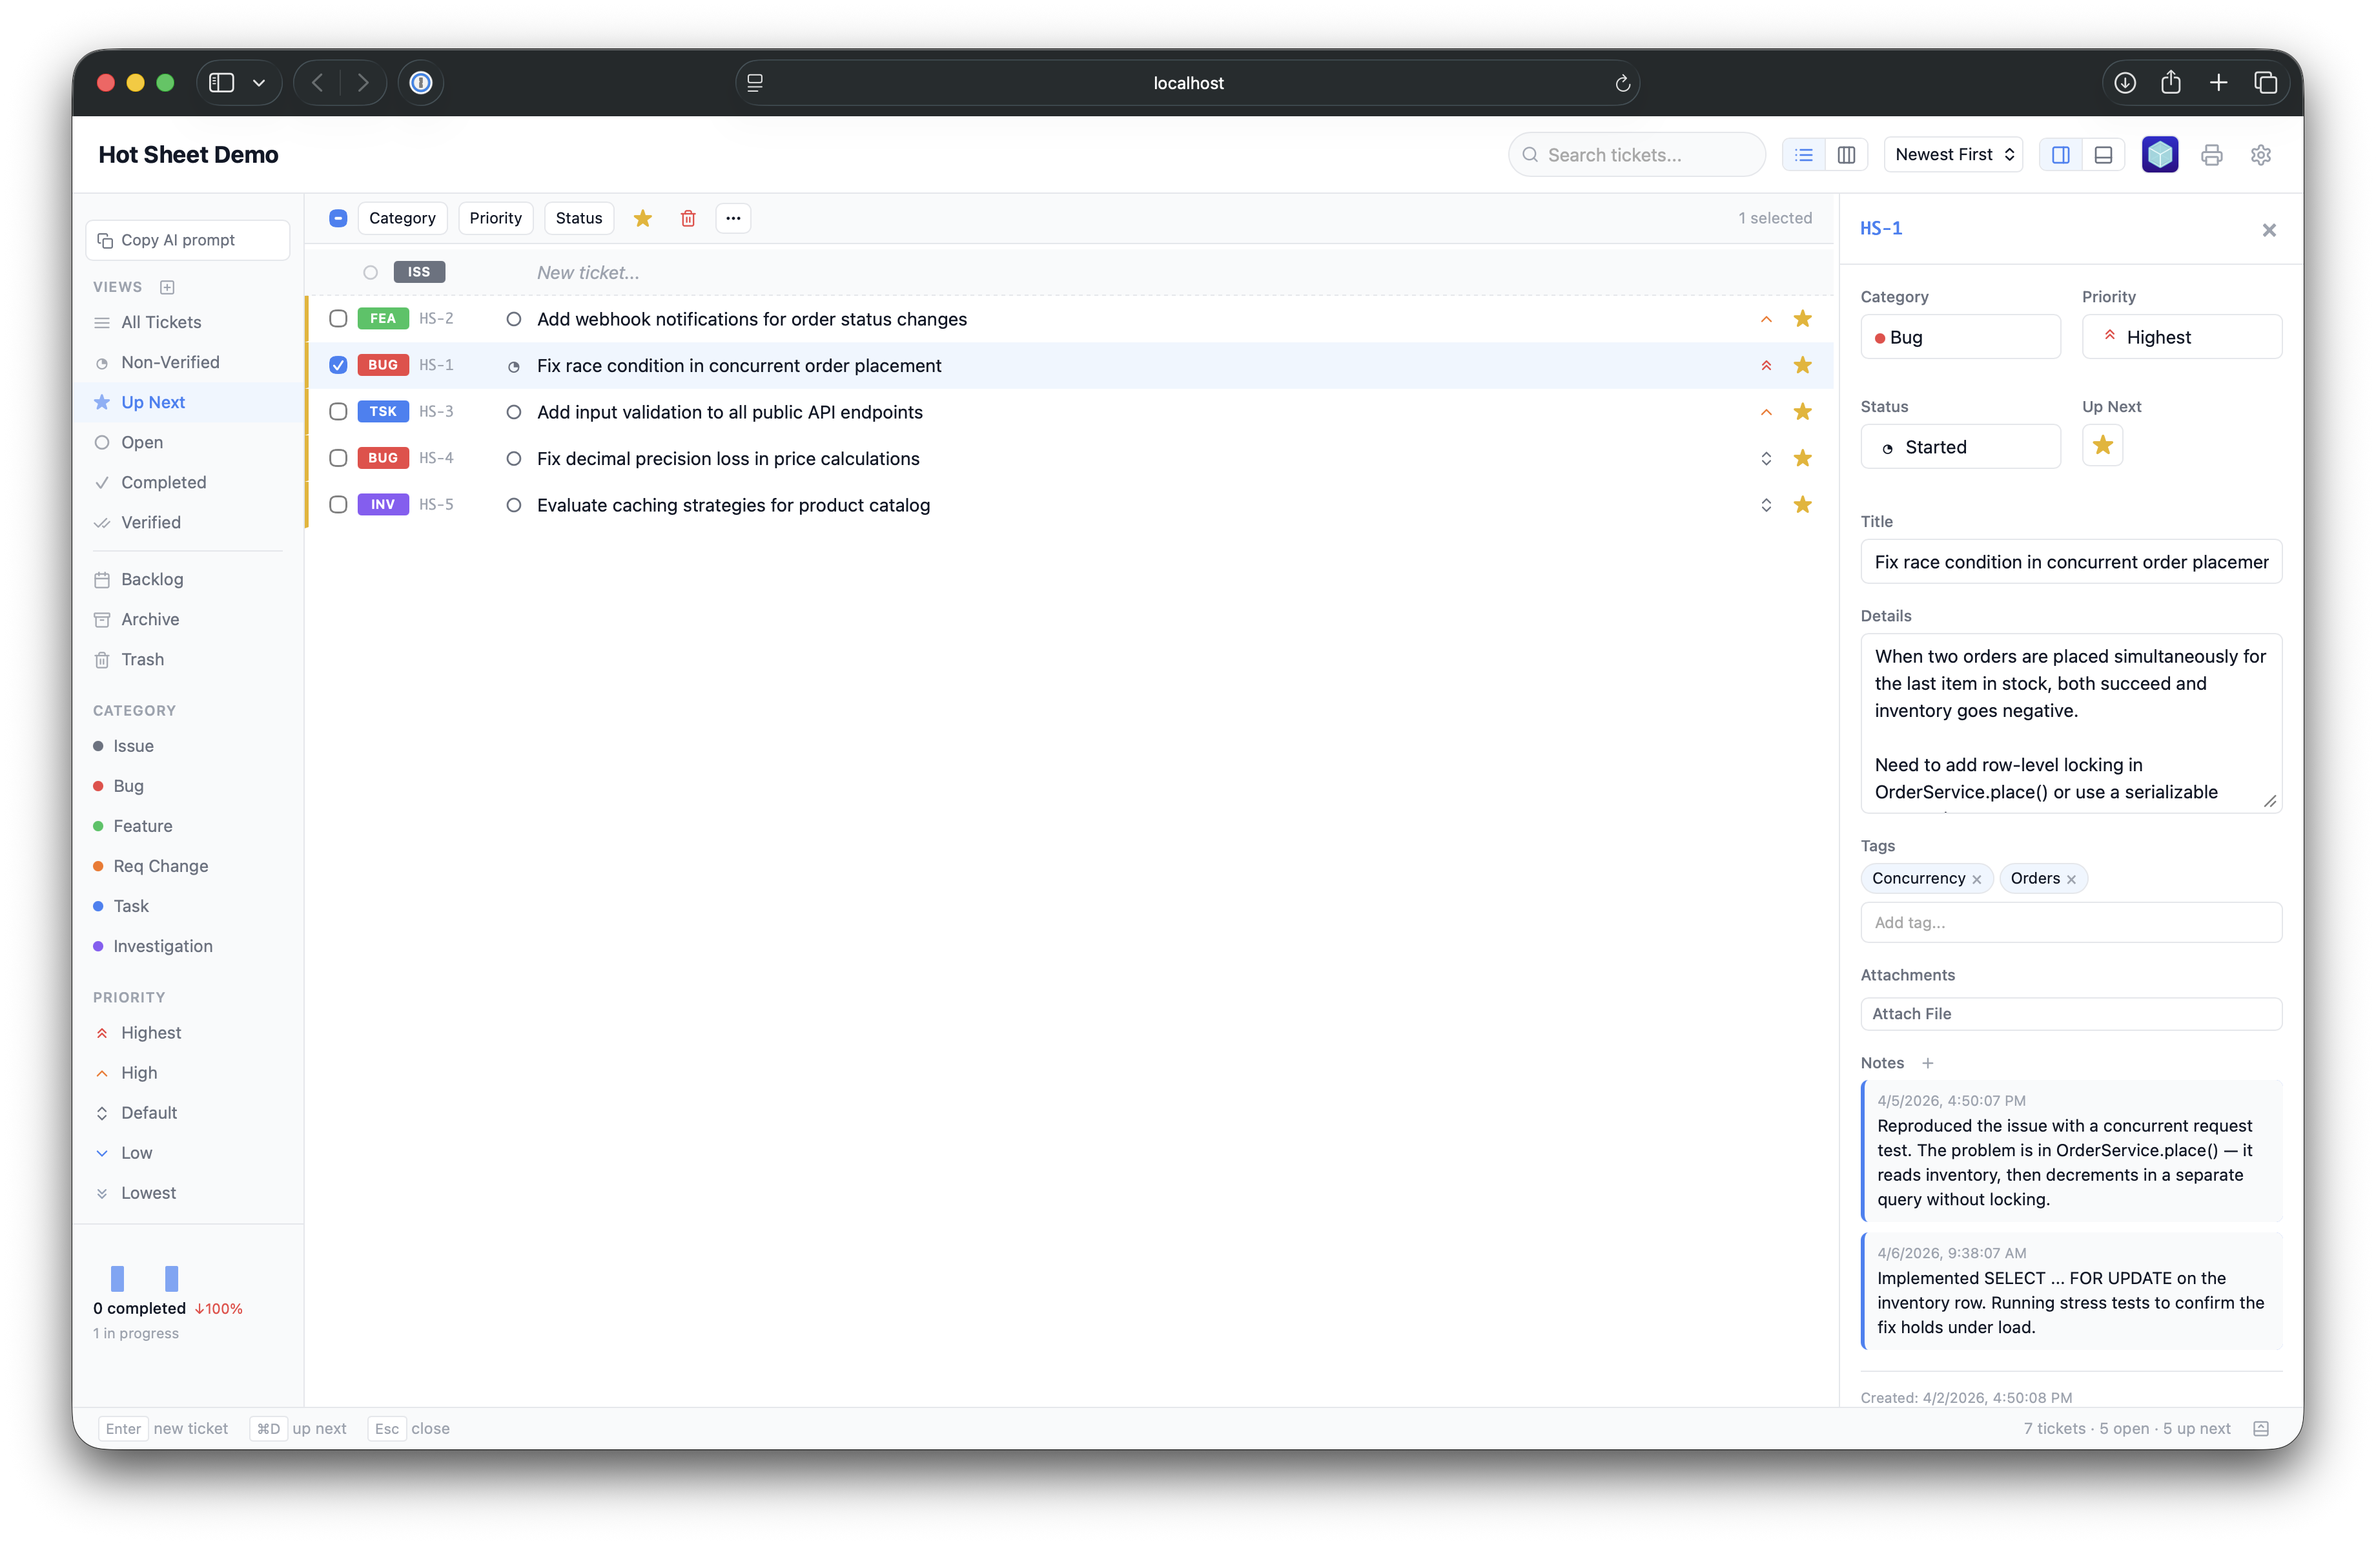
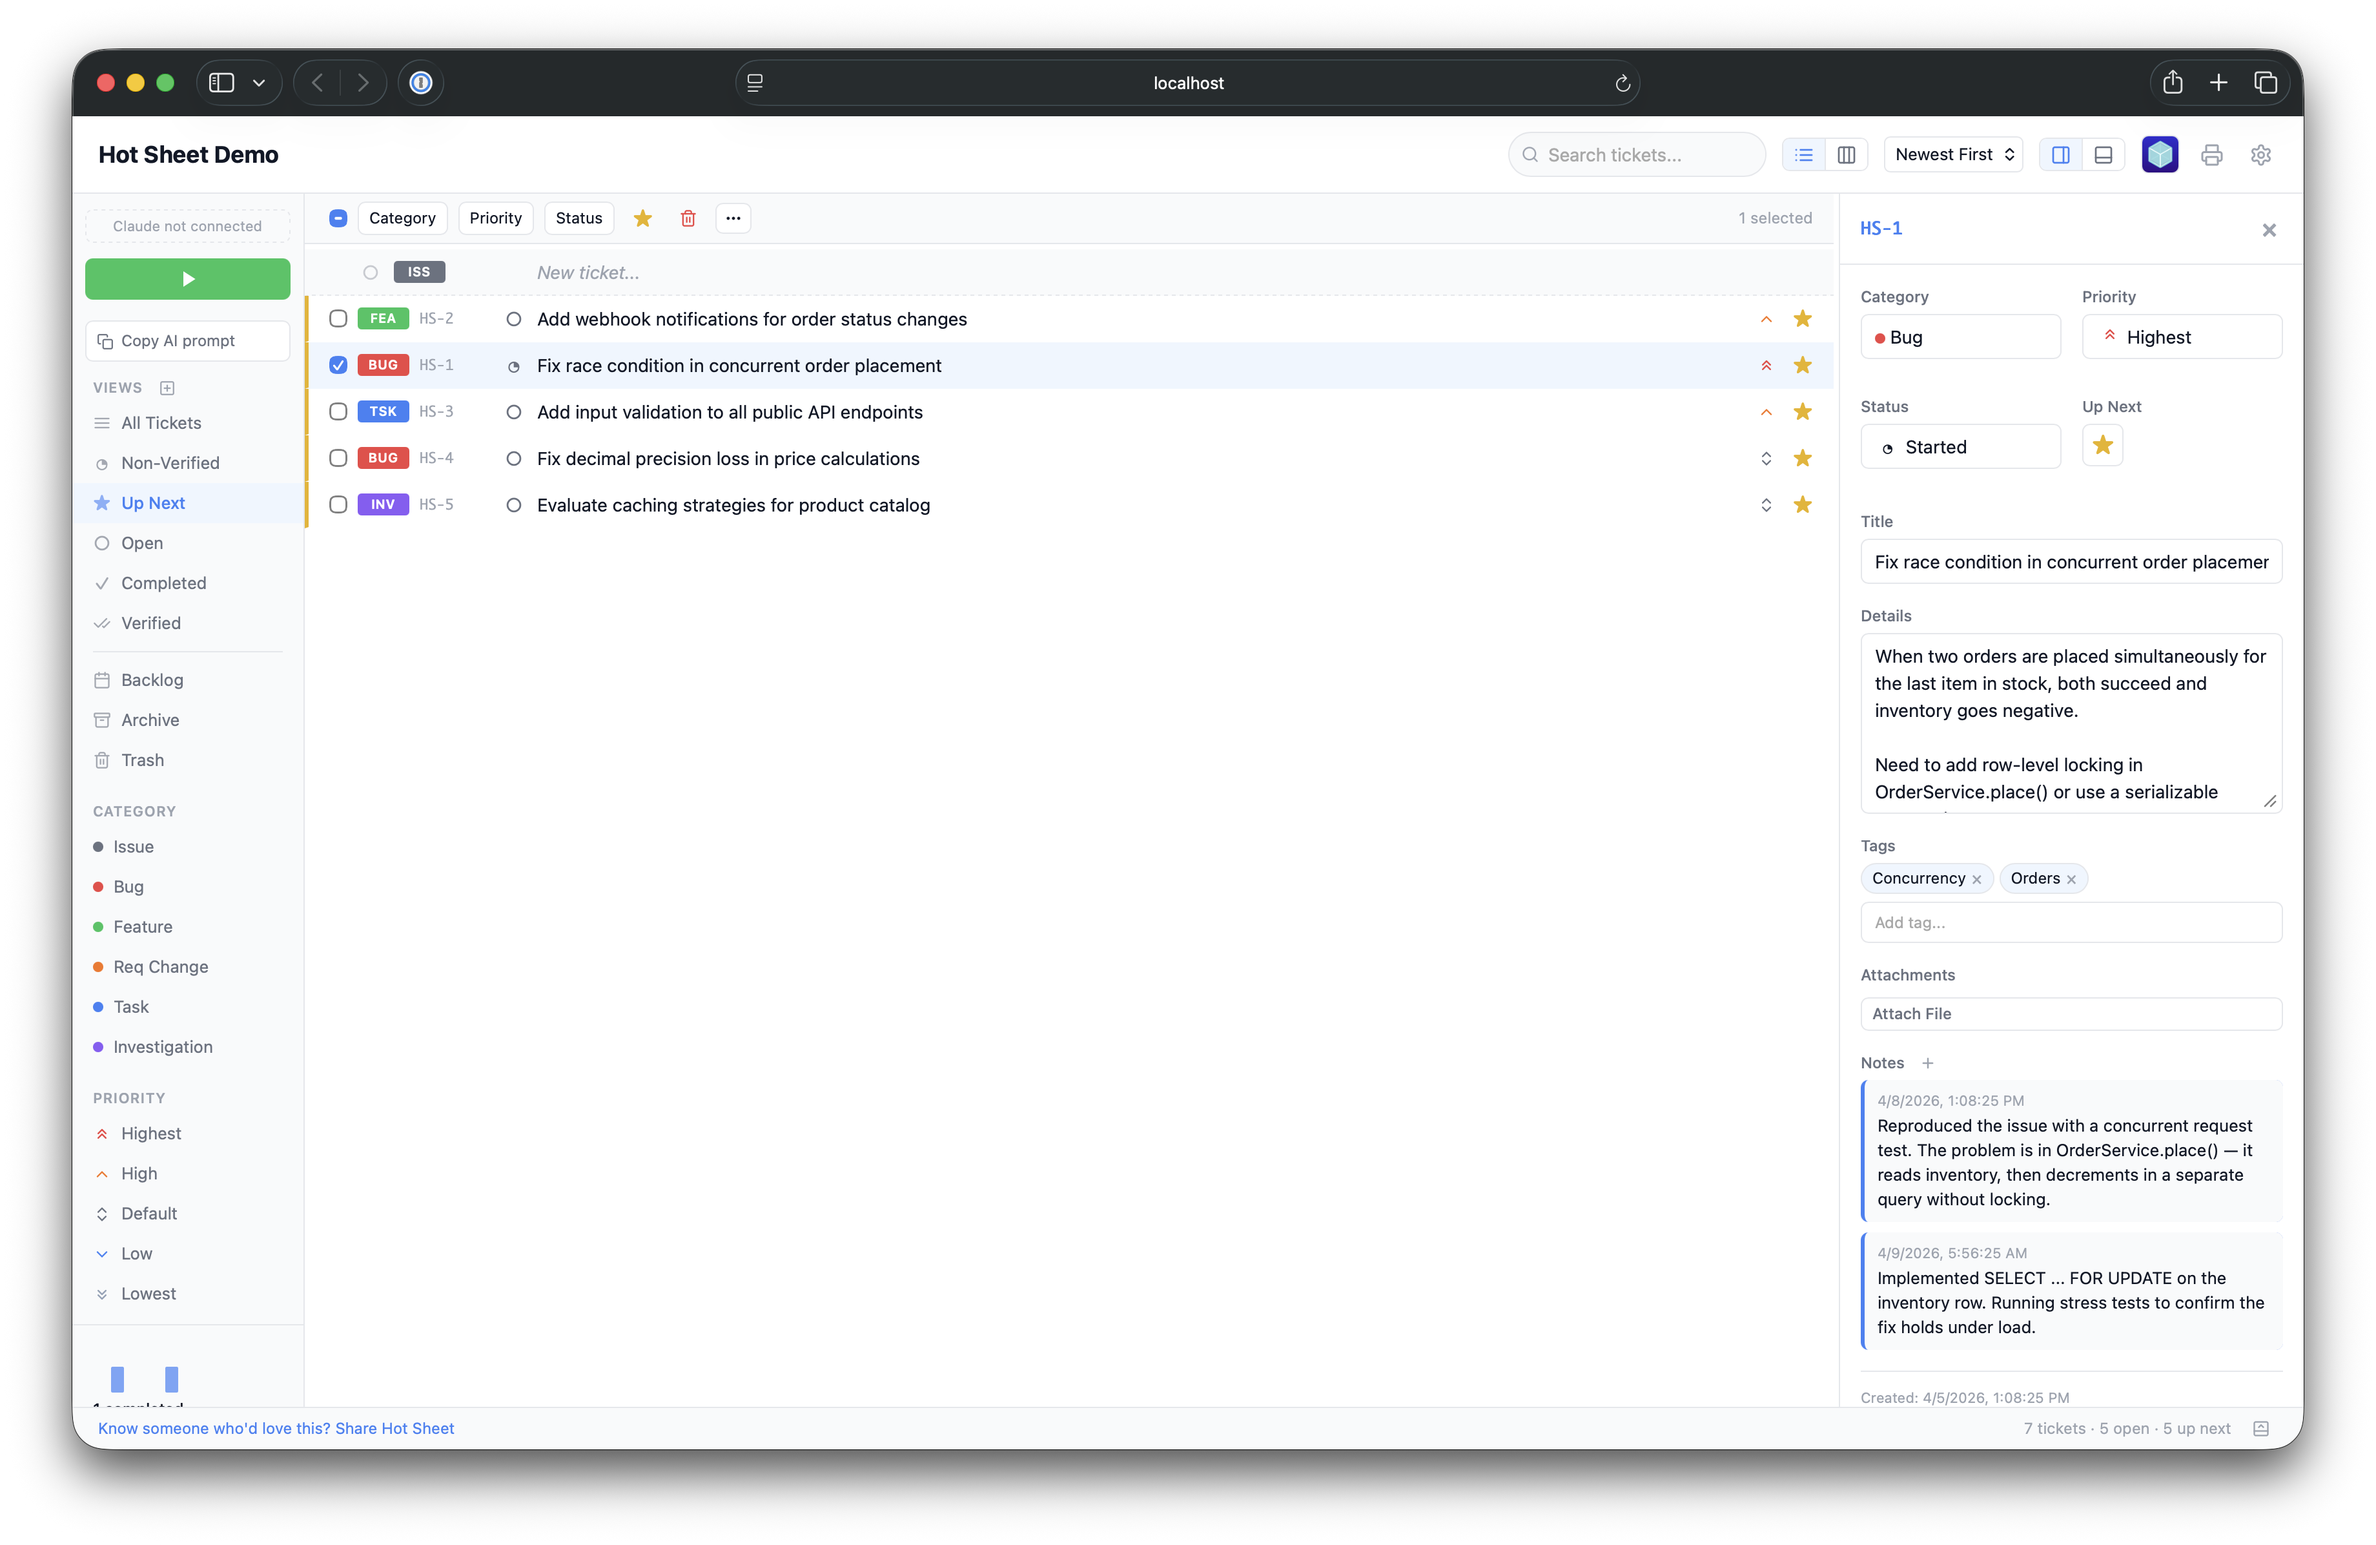
README update, refreshed screenshots, demo fixes, code hygiene, and auto-archive cleanup tests
README: updated search (includes tags), auto-cleanup (archive not delete), cut/paste shortcuts, auto-mode immediate trigger, command groups, collapsible detail panel, Open Folder on first launch, E2E count 55→64.

Screenshots: all 10 recaptured. Demo 9 commands now include groups. Demo 10 extra project dirs include timestamp to prevent stale DB reuse.

Code hygiene: extracted commandEditor.tsx (547 lines) from experimentalSettings (797→260). Converted last innerHTML (detail.tsx notes empty state) to JSX. Fixed cleanup tests for auto-archive behavior. Added git commit rule to CLAUDE.md.

diff --git a/src/demo.ts b/src/demo.ts
@@ -648,9 +648,14 @@ const SCENARIO_3_VIEWS = [
 
 const SCENARIO_9_COMMANDS = [
   { name: 'Commit Changes', prompt: 'Make a commit for the recently completed tickets.', icon: 'git-commit-horizontal', color: '#6b7280' },
-  { name: 'Run Tests', prompt: 'Run the test suite and report any failures.', icon: 'test-tubes', color: '#3b82f6' },
-  { name: 'Code Review', prompt: 'Review the recent changes for code quality and potential issues.', icon: 'search-code', color: '#8b5cf6' },
-  { name: 'Deploy Staging', prompt: 'Deploy the current branch to the staging environment.', icon: 'rocket', color: '#f97316' },
+  { type: 'group', name: 'Testing', children: [
+    { name: 'Run Tests', prompt: 'Run the test suite and report any failures.', icon: 'test-tubes', color: '#3b82f6' },
+    { name: 'Code Review', prompt: 'Review the recent changes for code quality and potential issues.', icon: 'search-code', color: '#8b5cf6' },
+  ]},
+  { type: 'group', name: 'Deploy', children: [
+    { name: 'Deploy Staging', prompt: 'Deploy the current branch to the staging environment.', icon: 'rocket', color: '#f97316' },
+    { name: 'Deploy Production', prompt: 'Deploy to production after staging verification.', icon: 'rocket', color: '#ef4444', target: 'shell' },
+  ]},
 ];
 
 // --- Seeding ---
@@ -745,17 +750,16 @@ export async function seedDemoExtraProjects(scenario: number, primaryDataDir: st
   const path = await import('path');
   const { registerProject } = await import('./projects.js');
   const { writeFileSettings } = await import('./file-settings.js');
-  const { setDataDir: setDir, getDb: getDatabase } = await import('./db/connection.js');
+  const { getDbForDir } = await import('./db/connection.js');
 
   const baseDir = path.dirname(primaryDataDir);
 
   for (const extra of EXTRA_PROJECTS) {
-    const extraDataDir = path.join(baseDir, `hotsheet-demo-${extra.appName.toLowerCase().replace(/\s+/g, '-')}`);
+    const extraDataDir = path.join(baseDir, `${path.basename(primaryDataDir)}-${extra.appName.toLowerCase().replace(/\s+/g, '-')}`);
     fs.mkdirSync(extraDataDir, { recursive: true });
 
-    // Initialize DB for this project
-    setDir(extraDataDir);
-    const db = await getDatabase();
+    // Get a DB instance directly for this specific data dir
+    const db = await getDbForDir(extraDataDir);
 
     // Seed tickets
     for (let i = 0; i < extra.tickets.length; i++) {
@@ -778,11 +782,6 @@ export async function seedDemoExtraProjects(scenario: number, primaryDataDir: st
     writeFileSettings(extraDataDir, { appName: extra.appName });
 
     // Register with the running server
-    // Reset dataDir to primary so registerProject can work correctly
-    setDir(primaryDataDir);
     await registerProject(extraDataDir, port);
   }
-
-  // Restore primary dataDir context
-  setDir(primaryDataDir);
 }

diff --git a/README.md b/README.md
@@ -21,7 +21,7 @@ No cloud. No logins. No JIRA. Just tickets and a tight feedback loop.
 | Linux | `.AppImage` / `.deb` |
 | Windows | `.msi` / `.exe` |
 
-After installing, open the app and click **Install CLI** to add the `hotsheet` command to your PATH.
+After installing, open the app and use **Open Folder** to get started — or click **Install CLI** to add the `hotsheet` command to your PATH for terminal launching.
 
 **Or install via npm:**
 
@@ -92,7 +92,7 @@ The loop stays tight because the AI always knows what to work on next.
   <img src="docs/demo-5.png" alt="Multiple tickets selected with the batch toolbar and context menu" width="900">
 </p>
 
-**Detail panel** — side or bottom orientation (toggle in the toolbar), resizable. Shows category, priority, status, and Up Next in a compact grid, plus title, details, tags, attachments, and editable notes. Click a note to edit inline; right-click to delete.
+**Detail panel** — side or bottom orientation (toggle in the toolbar), resizable, collapsible (click the active position to hide). Shows category, priority, status, and Up Next in a compact grid, plus title, details, tags, attachments, and editable notes. Click a note to edit inline; right-click to delete.
 
 <p align="center">
   <img src="docs/demo-6.png" alt="Detail panel in bottom orientation showing ticket details, tags, and notes" width="900">
@@ -118,16 +118,16 @@ The loop stays tight because the AI always knows what to work on next.
 - **Up Next flag** — star tickets to add them to the AI worklist
 - **Drag and drop** — drag tickets onto sidebar views to change category, priority, or status; drop files onto the detail panel to attach; reorder project tabs and custom views
 - **Right-click context menus** — full context menu on tickets with category/priority/status submenus, tags, duplicate, backlog, archive, delete — all with Lucide icons
-- **Search** — full-text search across ticket titles, details, and ticket numbers
+- **Search** — full-text search across ticket titles, details, ticket numbers, and tags
 - **Print** — print the dashboard, all tickets, selected tickets, or individual tickets in checklist, summary, or full-detail format
 - **Keyboard-driven** — `Enter` to create, `Cmd+I/B/F/R/K/G` for categories, `Alt+1-5` for priority, `Cmd+D` for Up Next, `Delete` to trash, `Cmd+P` to print, `Cmd+Z/Shift+Z` for undo/redo
 - **Undo/redo** — `Cmd+Z` and `Cmd+Shift+Z` for all operations including notes, batch changes, and deletions
 - **Animated transitions** — smooth FLIP animations when tickets reorder after property changes
-- **Copy for commits** — `Cmd+C` copies selected ticket info (number + title + details + notes) for use in commit messages
+- **Copy / cut / paste** — `Cmd+C` copies selected tickets (formatted text to clipboard + structured data for paste), `Cmd+X` cuts, `Cmd+V` pastes into the current project with title dedup. Works across projects.
 - **File attachments** — attach files via file picker or drag-and-drop onto the detail panel, reveal in file manager
 - **Markdown sync** — `worklist.md` and `open-tickets.md` auto-generated on every change
 - **Automatic backups** — tiered snapshots (every 5 min, hourly, daily) with preview-before-restore recovery
-- **Auto-cleanup** — configurable auto-deletion of old trash and verified items
+- **Auto-cleanup** — verified tickets auto-archive after a configurable number of days; trashed tickets auto-delete
 - **App icon variants** — 9 icon variants to choose from in Settings, applied instantly to the dock icon
 - **Fully local** — embedded PostgreSQL (PGLite), no network calls, no accounts, no telemetry
 
@@ -164,9 +164,9 @@ Hot Sheet automatically generates skill files for Claude Code (as well as Cursor
 Hot Sheet can push events directly to a running Claude Code session via MCP channels. Enable it in Settings → Experimental:
 
 - **Play button** — appears in the sidebar. Single-click sends the worklist to Claude on demand.
-- **Auto mode** — double-click the play button to enable automatic mode. When you star a ticket for Up Next, Claude is notified after a 5-second debounce and picks up the work automatically. Exponential backoff prevents runaway retries.
+- **Auto mode** — double-click the play button to enable automatic mode. Claude is triggered immediately, then continues monitoring for new Up Next items with debounce. Exponential backoff prevents runaway retries.
 - **Auto-prioritize** — when no tickets are flagged as Up Next, Claude automatically evaluates open tickets and picks the most important ones to work on.
-- **Custom commands** — create named buttons that send custom prompts to Claude **or run shell commands** directly. Toggle between "Claude Code" and "Shell" targets per command. Shell commands execute server-side with stdout/stderr captured to the commands log.
+- **Custom commands** — create named buttons that send custom prompts to Claude **or run shell commands** directly. Organize into collapsible groups. Toggle between "Claude Code" and "Shell" targets per command. Shell commands execute server-side with stdout/stderr captured to the commands log.
 - **Permission relay** — when Claude needs tool approval (Bash, Edit, etc.), a full-screen overlay shows the tool name and command preview with Allow/Deny/Dismiss buttons — no need to switch to the terminal.
 - **Commands log** — a resizable bottom panel that records all communication: triggers, completions, permission requests, and shell command output. Filter by type, search, and copy entries. Shell commands show a stop button for running processes.
 - **Status indicator** — shows "Claude working" / "Shell running" / idle in the footer.
@@ -256,7 +256,7 @@ Only one Hot Sheet instance can use a data directory at a time. If you accidenta
 
 Download the latest release for your platform from [GitHub Releases](https://github.com/brianwestphal/hotsheet/releases).
 
-On first launch, the app will prompt you to install the `hotsheet` CLI command. This creates a symlink so you can launch the desktop app from any project directory. You can also install it manually:
+On first launch, use **Open Folder** to point the app at your project directory. The app remembers your projects and reopens them on subsequent launches. Optionally install the CLI for terminal-based launching:
 
 **macOS:**
 ```bash
@@ -340,6 +340,8 @@ All settings can also be changed from the settings panel UI.
 | `Cmd+D` | Toggle Up Next |
 | `Delete` / `Backspace` | Delete selected tickets |
 | `Cmd+C` | Copy ticket info |
+| `Cmd+X` | Cut tickets |
+| `Cmd+V` | Paste tickets |
 | `Cmd+A` | Select all |
 | `Cmd+Z` | Undo |
 | `Cmd+Shift+Z` | Redo |
@@ -381,14 +383,14 @@ npm install
 npm run dev              # Build client assets, then run via tsx
 npm run build            # Build to dist/cli.js
 npm test                 # Unit tests with coverage (446 tests)
-npm run test:e2e         # E2E browser tests (55 tests)
+npm run test:e2e         # E2E browser tests (64 tests)
 npm run test:all         # Merged coverage report (unit + E2E)
 npm run lint             # ESLint
 npm run clean            # Remove dist and caches
 npm link                 # Symlink for global 'hotsheet' command
 ```
 
-The project has comprehensive test coverage with 446 unit tests (vitest) and 55 Playwright E2E browser tests, plus 12 smoke tests for production install verification.
+The project has comprehensive test coverage with 446 unit tests (vitest) and 64 Playwright E2E browser tests, plus 12 smoke tests for production install verification.
 
 ---
 
